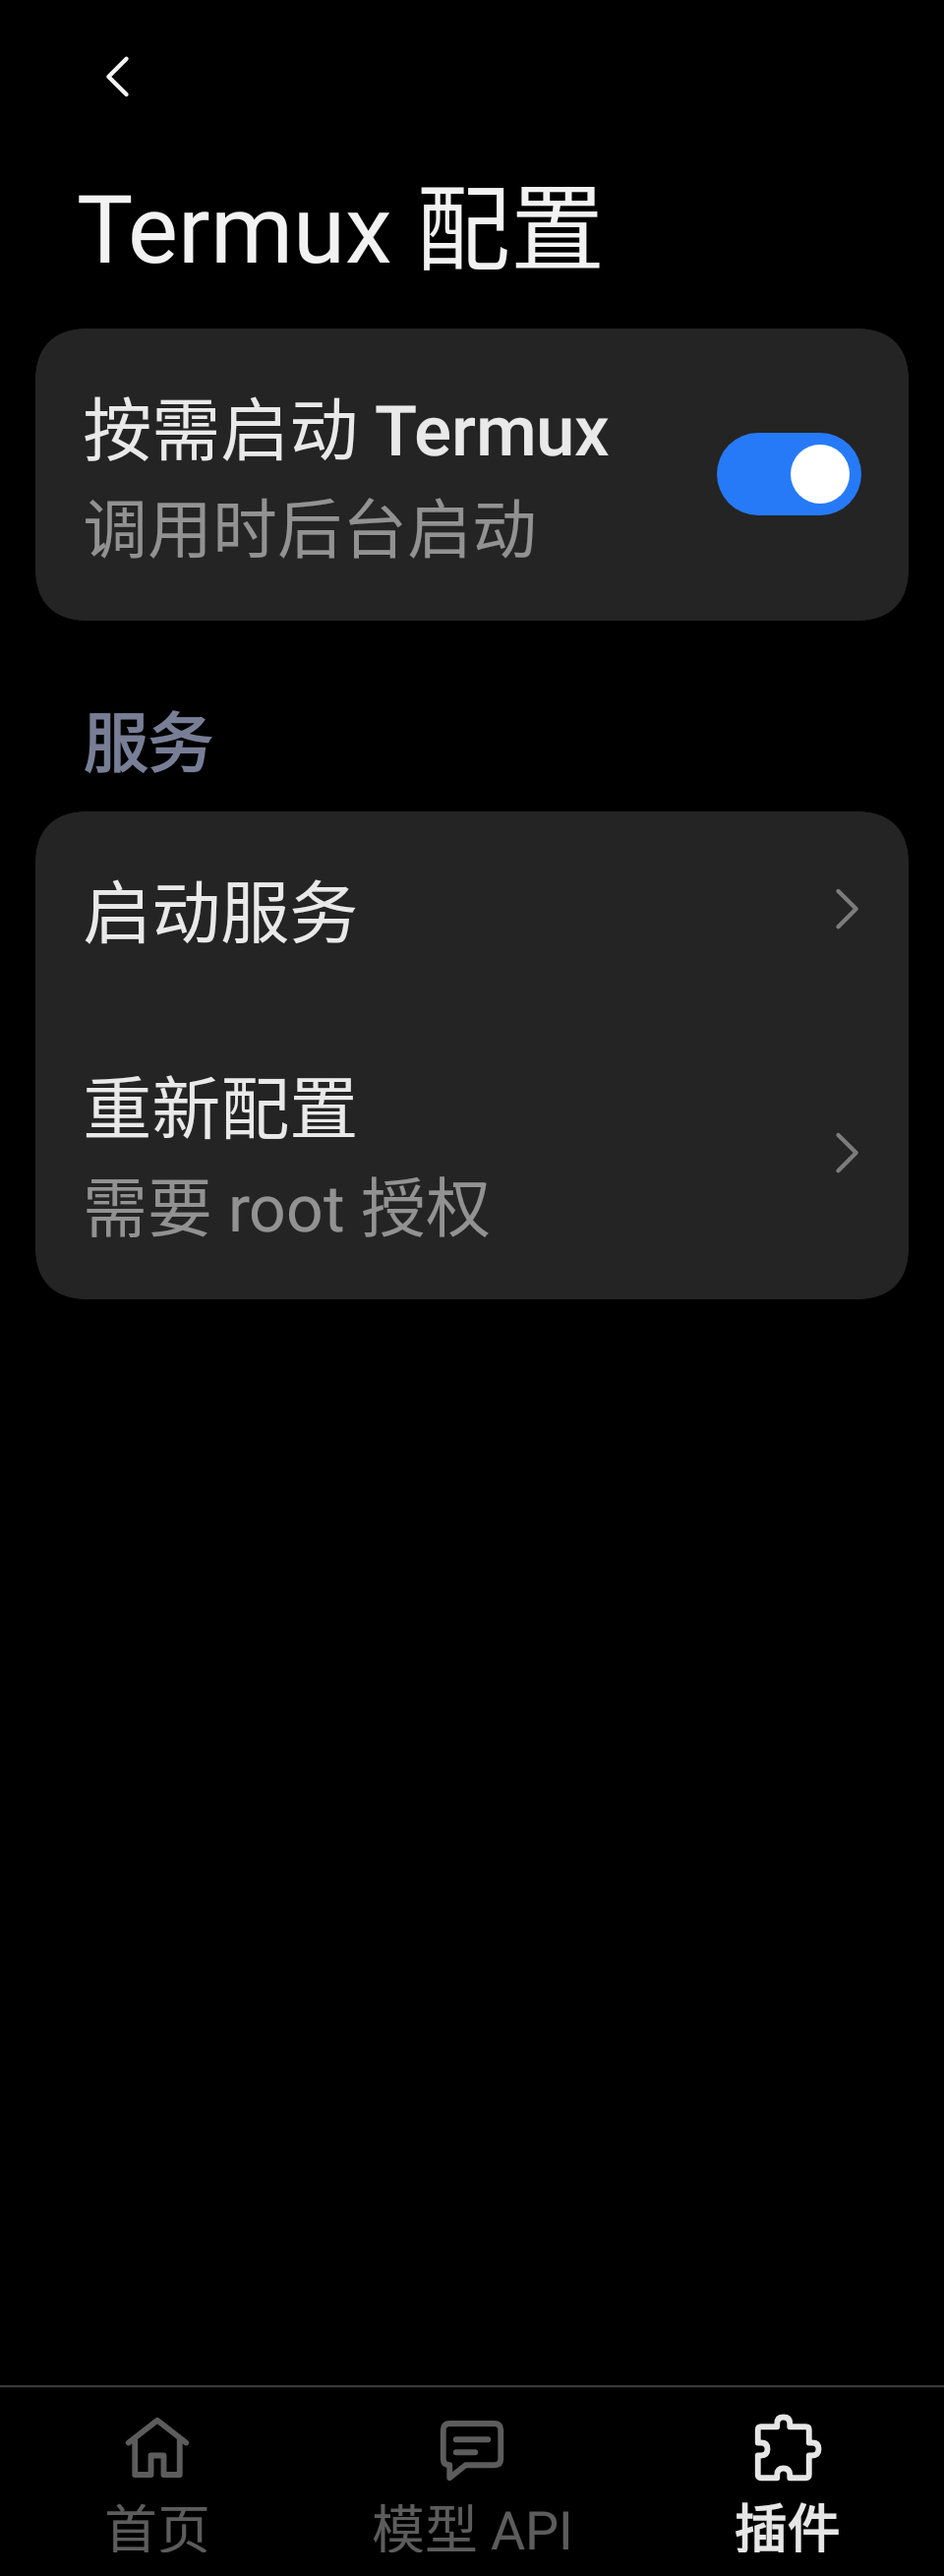
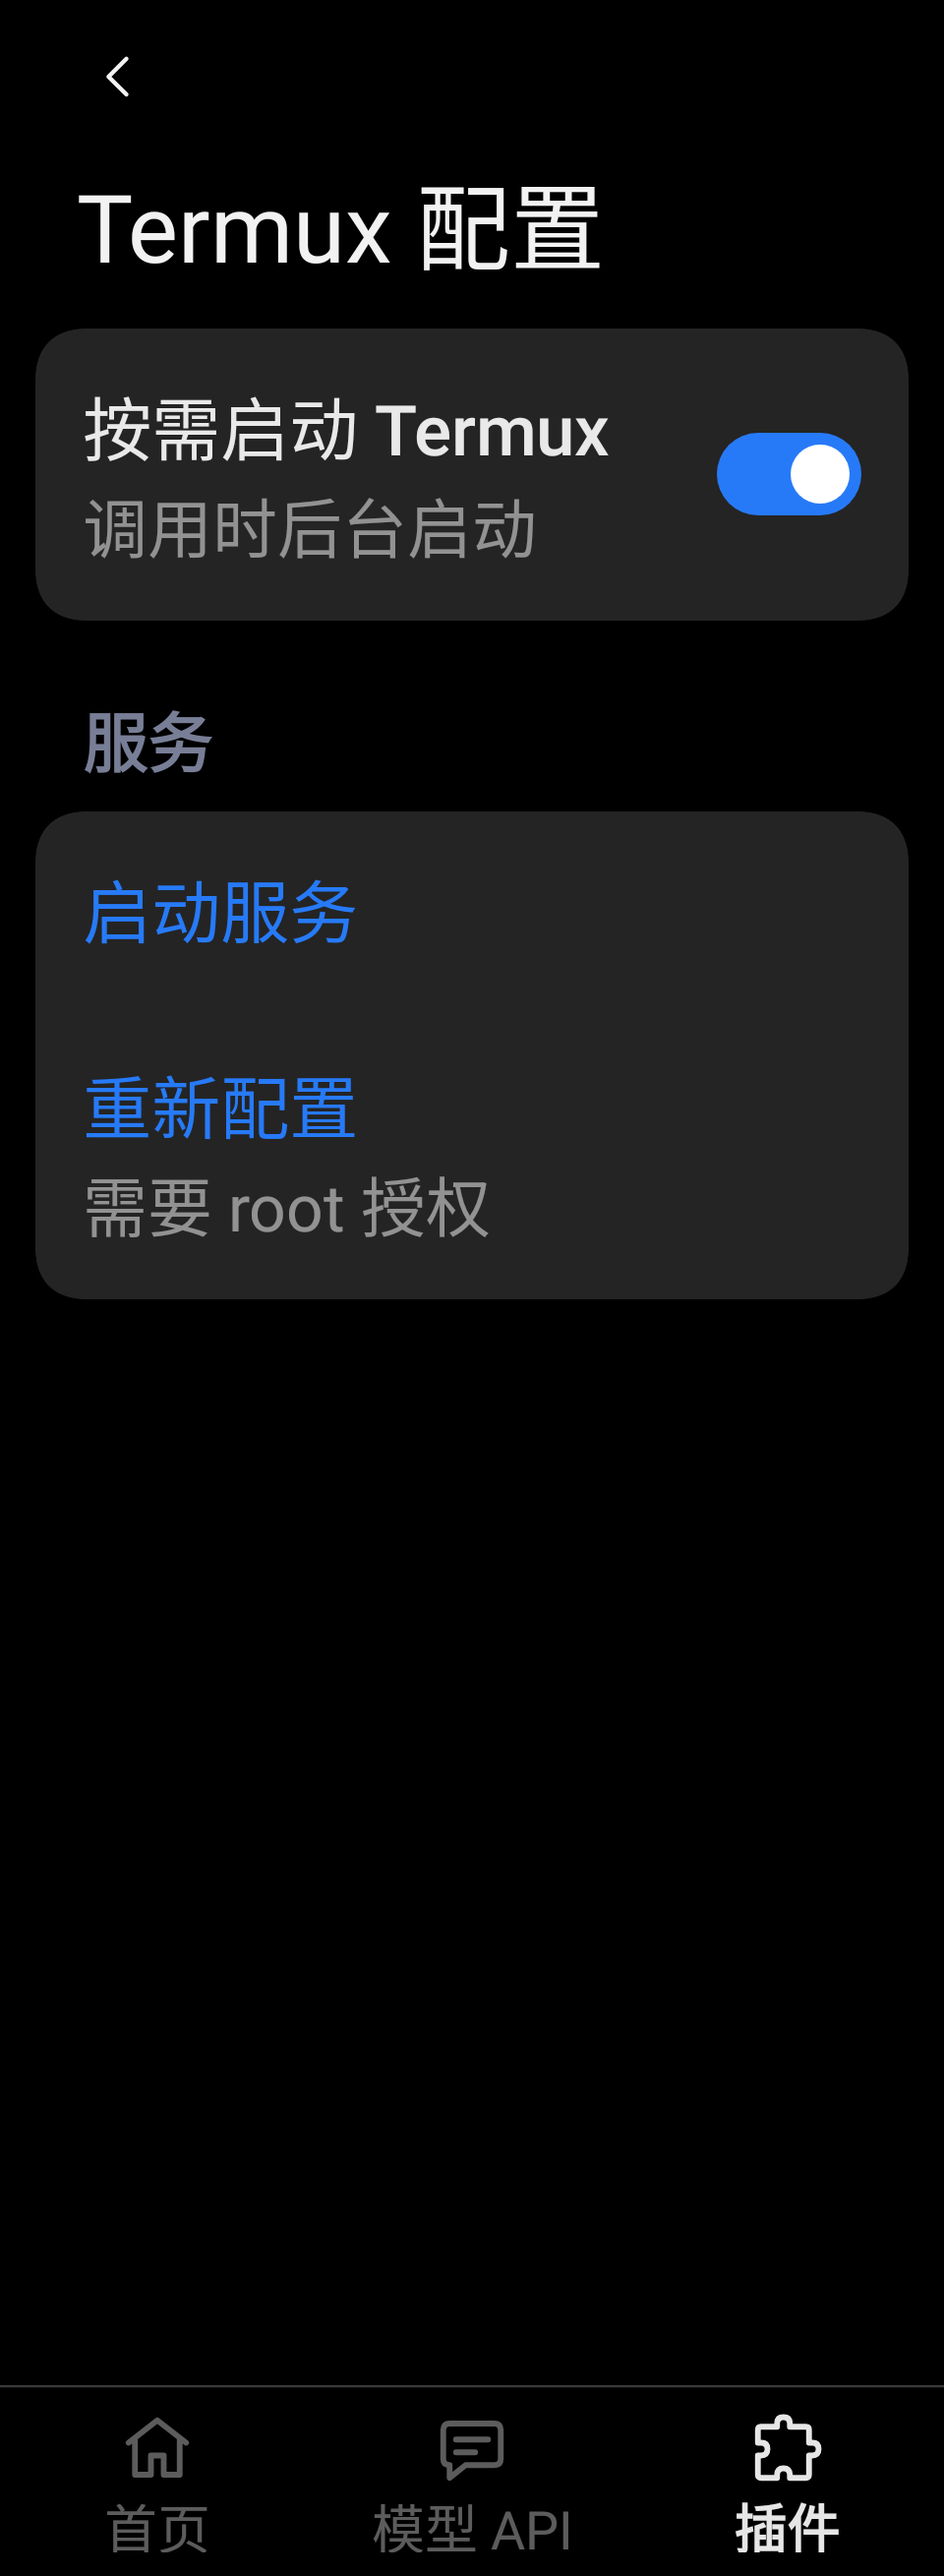
Update settings UI documentation and screenshots

Changed region(s): [[0.0938, 0.4021, 0.375, 0.4639], [0.0938, 0.3402, 0.375, 0.3711]]

diff --git a/docs/validation/settings-ui-rewrite-2026-11-06.md b/docs/validation/settings-ui-rewrite-2026-11-06.md
@@ -1,0 +1,36 @@
+# 设置 UI 重写：文档与实机验证（2026-11-06）
+
+本轮基于工作区内 Claude 重写后的前端，保留已有源码及文档改动；本记录的验证基于包含未提交 UI 源码的工作区，文档提交不包含该源码。主界面拆为独立页面，首页提供插件和控屏快捷入口，导航按实际来源返回，MCP 管理由列表进入独立详情页。界面及维护入口见 [设置界面](../settings-ui.md)。
+
+## 文档与截图
+
+重新运行当前源码的 Robolectric 截图用例，更新首页浅／深色、模型 API、插件浅／深色、控屏、Termux 浅色及深色大字、虚拟屏浅／深色；补充 MCP 详情、运行状态及直接测试图。日志截图也重新生成，内容与已有图一致。已逐页目视对照共用的 Miuix 设置行、箭头／操作色、底栏、标题、间距与文字换行。普通截图为 393 dp，Termux 大字图为 320 dp、1.5 倍字号；不将该项当作所有页面的大字覆盖。
+
+所有文档主图都使用合成配置。虚拟屏成功状态由 mock 返回，日志为合成元数据，不证明真实后端或模型任务。保留历史验证记录中的旧图，避免改变既有证据；性能文档明确旧采样不代表本次重写。
+
+## 本地检查
+
+```sh
+./gradlew :app:testDebugUnitTest :app:lintDebug :app:assembleDebug :app:assemblePreview
+./gradlew -PuiTestBuildType=preview :app:assemblePreviewAndroidTest
+```
+
+使用本机 JDK 25 和项目配置的 SDK 37。540 项 JVM／Robolectric 测试全部通过（0 跳过）；Debug 完整 Lint、Debug／优化 Preview／Preview AndroidTest 构建通过。未在本轮运行 Release 完整 Lint 或 Release 构建，Preview 的 lintVital 不替代 Release 完整 Lint。
+
+## 设备
+
+Xiaomi 25019PNF3C，Android API 37，竖屏 1440×3200，系统深色模式。通过 `adb install -r` 覆盖安装当前完整源码构建的 `1.0.2-preview` 优化 Preview 和对应测试 APK。
+
+插件专项 `SettingsUiRunner -e plugins true` 通过：底栏根页、添加入口对齐、MCP 编辑取消与重建、控屏／虚拟屏选中态、工具栏／系统返回层级、子页点击标签回根页，以及模型草稿离开确认。未发起模型请求或虚拟屏探测；Runner 报告原配置恢复并验证通过。
+
+以下是该专项使用临时合成配置的实机图，裁去系统状态栏和手势条：
+
+<img src="../images/settings-plugins-device-20261106.png" width="320" alt="新 UI 插件页深色实机，合成配置">
+
+完整表单 Runner 启动后未正常结束；第二次显式传入 `-e plugins false` 重试也未完成。运行中曾生成模型／键盘／协议弹窗截图，但没有最终 PASS，不计作整套表单回归通过。通过重新覆盖安装结束未完成的测试后，adb 输出 `Process crashed`；该输出不能用来断言产品发生了独立崩溃。另一次 `uiautomator dump` 返回 `could not get idle state`。原因未定位，不能将其归结为已确认的产品或 Runner 缺陷。
+
+已从安装前的私有备份恢复原设置，再覆盖安装相同 Preview 使进程重新读取；逐项比较配置，仅 `hook_at` 注入报告时间更新，其余键值保持一致。无障碍启用服务列表与测试前一致，未更改 ADB reverse。保留当前 Preview 与对应测试 APK。备份和含设备配置的截图只存本地忽略目录，不加入文档。
+
+恢复后另用 adb 点按并截图核对：首页进入控屏时仍选中首页，系统返回回首页；插件底栏进入插件根页。Termux 二级页本轮仅有本地渲染覆盖，未完成实机确认。页面标题、控件、操作色与底栏未见截断或错位；没有切换开关或触发服务操作。
+
+本轮不重启小爱、不启停 Termux 服务、不发起真实模型任务；不重新证明 Hook、远程 MCP、后台控屏能力或运行性能。原始构建日志和设备输出保存在本地忽略目录 `.tools/ui-rewrite-20261106*`。

diff --git a/docs/validation.md b/docs/validation.md
@@ -9,6 +9,7 @@
 | 范围 | 已有证据 | 边界与详细记录 |
 | --- | --- | --- |
 | 内置 Termux 并行调用与失败恢复 | 538 项 JVM／Robolectric、双变体完整 Lint 零错误及各 APK 构建通过；API 37 优化 Preview 中小爱真实模型一批完成 6 条命令，实测峰值 4 条并发；退出码 7 后同轮执行了后备命令 | 本轮实机使用已运行的 Termux 服务；未验证并行冷启动或小米官方模型。见 [并行与恢复记录](validation/termux-parallel-2026-11-06.md) |
+| 设置 UI 重写与截图更新 | 540 项 JVM／Robolectric、Debug 完整 Lint、Debug／优化 Preview／Preview AndroidTest 构建通过；API 37 覆盖安装，插件导航专项通过 | 全部主图更新为当前源码合成截图；完整设备表单 Runner 未正常结束，不计通过，原业务配置与无障碍列表已核对恢复。见 [本轮记录](validation/settings-ui-rewrite-2026-11-06.md) |
 | Termux 配置二级页 | 535 项 JVM／Robolectric、Debug／Release Lint 零错误、Debug／Release／Preview／Debug AndroidTest 构建通过；API 37 优化 Preview 实机核对入口、选中态和返回 | 检查深浅色、320 dp 和 1.5 倍字号；仅验证本轮设置界面，真实模型及冷启动沿用下方各自的历史证据。见 [二级页验证](validation/termux-settings-ui-2026-11-06.md) |
 | 内置 Termux MCP 一键配置和按需启动 | 533 项 JVM／Robolectric 通过，Debug／Release 完整 Lint 与构建通过；实机一键配置，关闭时冷态拒绝，开启后由小爱拉起后台并回读随机值 | HyperOS 的自启动设置在启动后恢复；使用已有 Termux Python，未测空白 Termux 的初始化／装 Python，见 [内置工具验证](validation/termux-managed-2026-11-06.md) |
 | 小爱真实模型会话调用 Termux MCP | 在已安装主线 Preview 上用当前配置的模型完成身份核验、按文件指令生成并校验报表，以及大输出引用接力 | 上游 `isError=true` 时实测该轮停止；把预期退出码作为普通结果时可以继续。未测小米官方模型、root shell 或持久终端，见 [实机记录](validation/termux-harness-2026-11-06.md) |

diff --git a/docs/settings-performance.md b/docs/settings-performance.md
@@ -1,5 +1,9 @@
 # 配置界面性能
 
+## 当前版本范围（2026-11-06）
+
+前端已重写为独立页面与来源返回栈，底栏为「首页、模型 API、插件」。当前布局与截图见 [设置界面](settings-ui.md)，本轮功能与安装结果见 [UI 重写验证](validation/settings-ui-rewrite-2026-11-06.md)。以下为历史性能采样，不代表重写后的帧率、CPU 或内存表现；本轮未重新做性能采样。
+
 ## 底栏过渡补充（2026-10-28）
 
 底栏切页改为 220 ms 淡入、24 dp 水平滑入，按首页、模型 API、控屏的排列决定方向。旧页仍立即释放，只有新页参与绘制层过渡，不恢复两整页交叠、尺寸动画或 lookahead。动画状态按目的页创建，连续切换取消旧页动画，点击当前标签不重播；现有二级页过渡、表单懒加载与滚动恢复保持。新实现的验证结果见 [底栏动画记录](validation/settings-tab-animation-2026-10-28.md)，下方历史性能数据不能代表本次结果。
